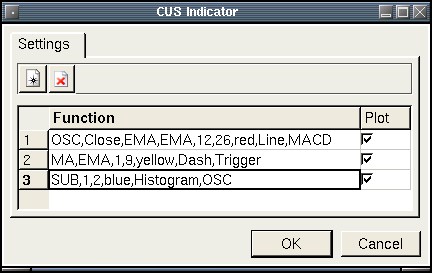
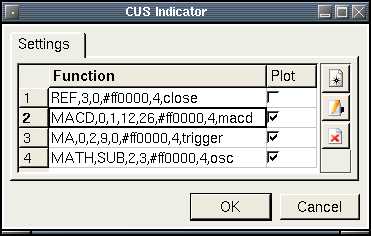
*** empty log message ***

diff --git a/docs/cus.html b/docs/cus.html
@@ -8,22 +8,30 @@
 <body>
 <h2><u>Custom - CUS</u></h2>
 <br>
-<img style="width: 432px; height: 273px;" alt="" src="cus1.png"><br>
+<img style="width: 371px; height: 236px;" alt="" src="cus1.png"><br>
 <h3> Description:</h3>
 Allows the user to create custom indicators to plot. The user builds an
 indicator in a step by step manner. Using the above pic as an example
-to build a copy of the built in MACD indicator manually. The first
-function uses a MACD. We check the Plot
-column here if we want this particular function to appear on the plot.
-Step 2 then creates the trigger plot by applying an EMA using step 1 as
-the input. We also want to plot this. Step 3 then builds a histogram
-of&nbsp; the MACD and trigger plots by subtracting step 2 from step 1
-using the SUB function. We check this to plot as well.<br>
+to build a copy of the built in MACD indicator manually. Here is a
+breakdown of each step:<br>
+<br>
+1. We use a REF step to create an array of close bar fields. This will
+be used as the input data that later steps will build on. We don't
+check the plot column because we don't want to plot this.<br>
+2. We use a MACD step with step 1 as the input. We check the plot
+column so our MACD step will appear.<br>
+3. We use a MA to create the trigger plot by applying an EMA using step
+2 as
+the input. We check this to appear on the plot.<br>
+4. We use a MATH (subtraction) function to build a histogram
+of the MACD and trigger plots by subtracting step 3 from step 2. We
+check this to appear on the plot.<br>
 <br>
 By using all the indicator plugins available, we are able to build
 almost any
 kind of indicator quickly and simply without having to learn a new
-scripting language. Complicated intensive indicators would best be left
+scripting language. Complicated, intensive indicators would best be
+left
 to creating a plugin instead of long series of functions for speed and
 memory considerations.<br>
 <br>

diff --git a/src/Tester.cpp b/src/Tester.cpp
@@ -1655,16 +1655,16 @@ void Tester::getVolume ()
   {
 //    volume = 1;
     balance = account->text().toDouble();
-    volume = (balance / getPrice(buyRecord));
+    volume = (int) (balance / getPrice(buyRecord));
     return;
   }
 
   balance = balance * ((double) volumePercent->value() / 100.0);
 
   if (margin->value())
-    volume = (double) (balance / margin->value());
+    volume = (int) (double) (balance / margin->value());
   else
-    volume = (double) (balance / getPrice(buyRecord));
+    volume = (int) (double) (balance / getPrice(buyRecord));
 
 //  if (volume < 1)
 //    volume = 1;
